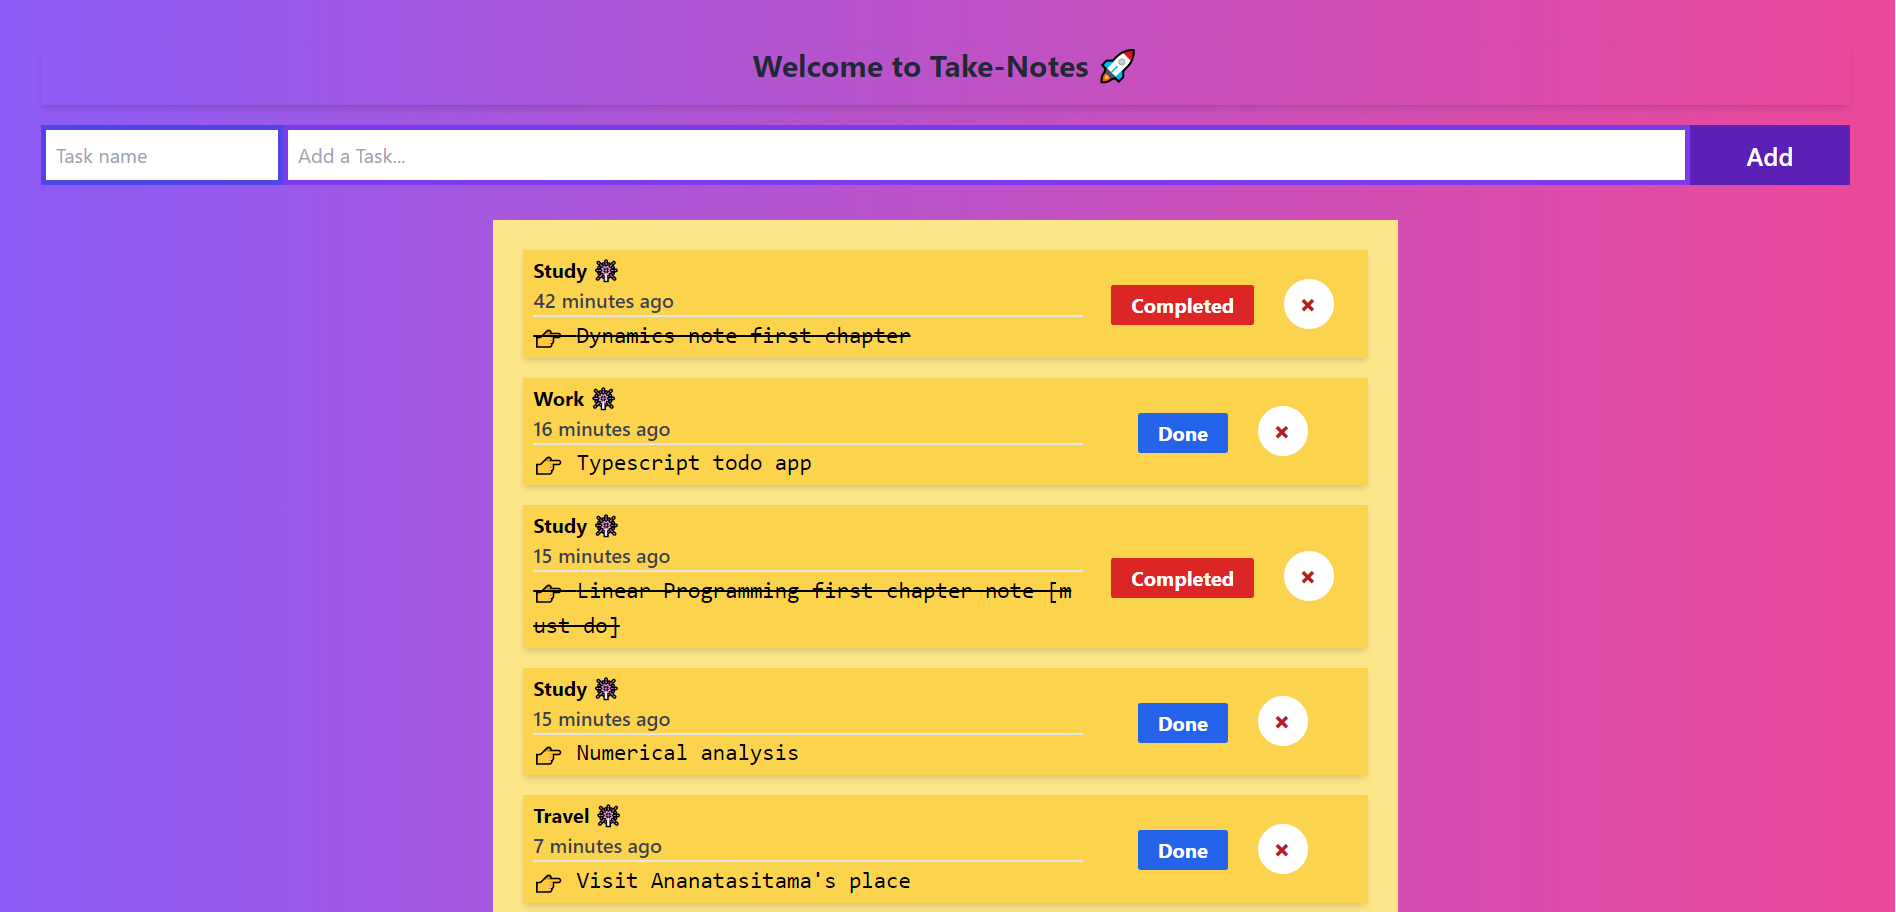
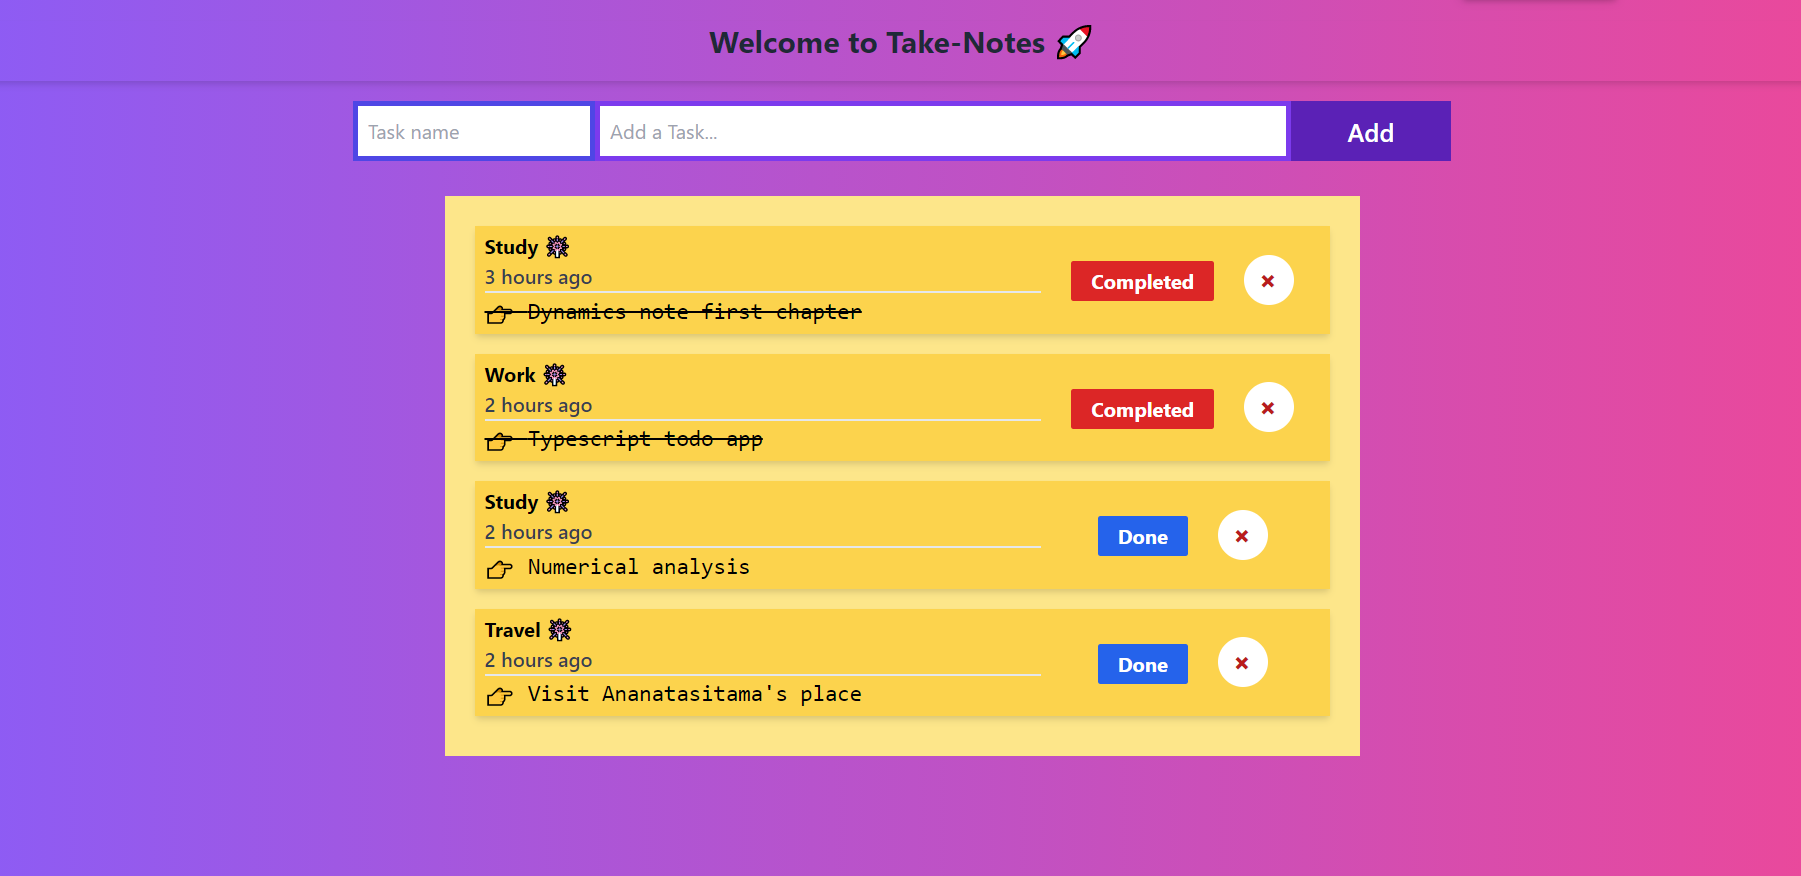
improved some style

Changed region(s): [[0.0, 0.0, 1.0, 1.0]]

diff --git a/client/src/components/TodoItem.tsx b/client/src/components/TodoItem.tsx
@@ -12,47 +12,51 @@ const TodoItem: React.FC<IProps> = ({
   handleDeleteTodo,
 }) => {
   return (
-    <div className="grid grid-cols-6 bg-yellow-300 py-1 px-2 shadow-md mb-2">
-      <div className="col-span-4 text-left divide-y-2 divide-light-blue-400">
-        <div className="font-bold">
-          {todo.name} 🎆
-          <br />
-          <span className="text-gray-700 font-medium">
-            {moment(todo.createdAt).fromNow()}
-          </span>
-        </div>
-        <div
-          className={
-            !todo.status
-              ? "text-lg font-mono"
-              : "text-lg font-mono line-through"
-          }
-          style={{ lineBreak: "anywhere" }}
-        >
-          👉 {todo.description}
-        </div>
-      </div>
-      <div className="col-span-2 justify-center self-center">
-        {!todo.status ? (
-          <button
-            onClick={() => handleUpdateTodo(todo)}
-            className="mr-6 bg-blue-600 text-white font-bold px-4 py-1 rounded-sm ml-1"
+    <>
+      <div className="grid grid-cols-6 bg-yellow-300 py-1 px-2 shadow-md mb-2">
+        <div className="col-span-4 text-left divide-y-2 divide-light-blue-400">
+          <div className="font-bold">
+            {todo.name} 🎆
+            <br />
+            <span className="text-gray-700 font-medium">
+              {moment(todo.createdAt).fromNow()}
+            </span>
+          </div>
+          <div
+            className={
+              !todo.status
+                ? "text-lg font-mono"
+                : "text-lg font-mono line-through"
+            }
+            style={{ lineBreak: "anywhere" }}
           >
-            Done
+            👉 {todo.description}
+          </div>
+        </div>
+        <div className="col-span-2 justify-center self-center">
+          {!todo.status ? (
+            <button
+              onClick={() => handleUpdateTodo(todo)}
+              className="mr-6 bg-blue-600 text-white font-bold px-4 py-1 rounded-sm ml-1"
+            >
+              Done
+            </button>
+          ) : (
+            <button className="mr-6 bg-red-600 cursor-default text-white font-bold px-4 py-1 rounded-sm ml-1">
+              Completed
+            </button>
+          )}
+          <button
+            onClick={() => handleDeleteTodo(todo._id)}
+            className={`w-10 h-10 rounded-full text-2xl transform rotate-45 pb-1 bg-white text-red-700 font-extrabold hover:bg-yellow-200 hover:scale-125 ${
+              todo.status && "animate-puls"
+            }`}
+          >
+            +
           </button>
-        ) : (
-          <button className="mr-6 bg-red-600 cursor-default text-white font-bold px-4 py-1 rounded-sm ml-1">
-            Completed
-          </button>
-        )}
-        <button
-          onClick={() => handleDeleteTodo(todo._id)}
-          className="w-10 h-10 rounded-full text-2xl transform rotate-45 pb-1 bg-white text-red-700 font-extrabold hover:bg-yellow-200 hover:scale-125"
-        >
-          +
-        </button>
+        </div>
       </div>
-    </div>
+    </>
   );
 };
 

diff --git a/client/src/components/AddTodo.tsx b/client/src/components/AddTodo.tsx
@@ -16,7 +16,7 @@ const AddTodo = ({ handleAddTodo }: IProps): JSX.Element => {
   }
 
   return (
-    <div className=" mx-auto bg-pink-100 flex justify-center h-12">
+    <div className=" w-3/5 mx-auto bg-pink-100 flex justify-center h-12">
       <input
         className="  border-transparent focus:outline-none focus:ring-2 focus:ring-purple-600 focus:border-transparent pl-2 border-4 border-indigo-600 focus:border-purple-500"
         type="text"
@@ -34,8 +34,9 @@ const AddTodo = ({ handleAddTodo }: IProps): JSX.Element => {
       />
       <br />
       <button
+        disabled={!name && !task}
         onClick={() => addTodo(task, name)}
-        className="w-32 bg-purple-800 text-white text-xl font-semibold"
+        className="w-32 bg-purple-800 text-white text-xl font-semibold hover:animate-pulse"
       >
         Add
       </button>
